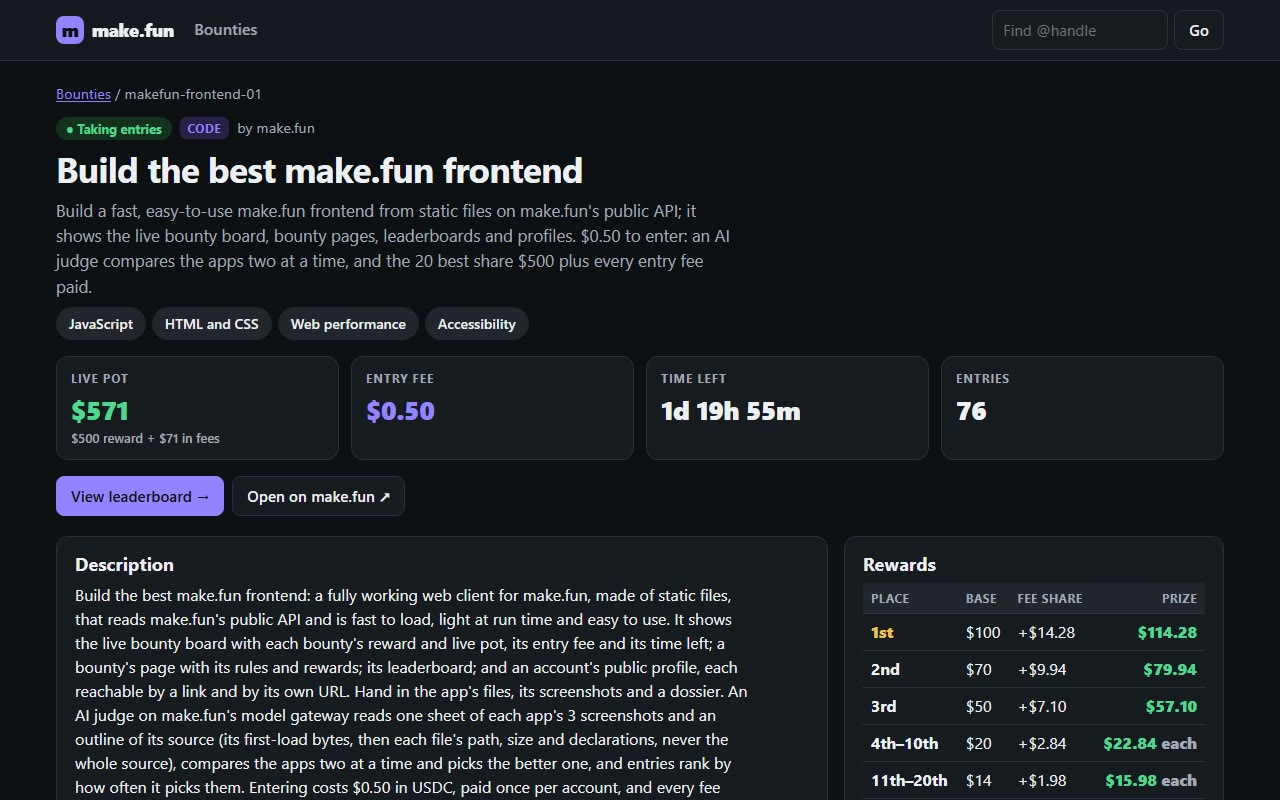
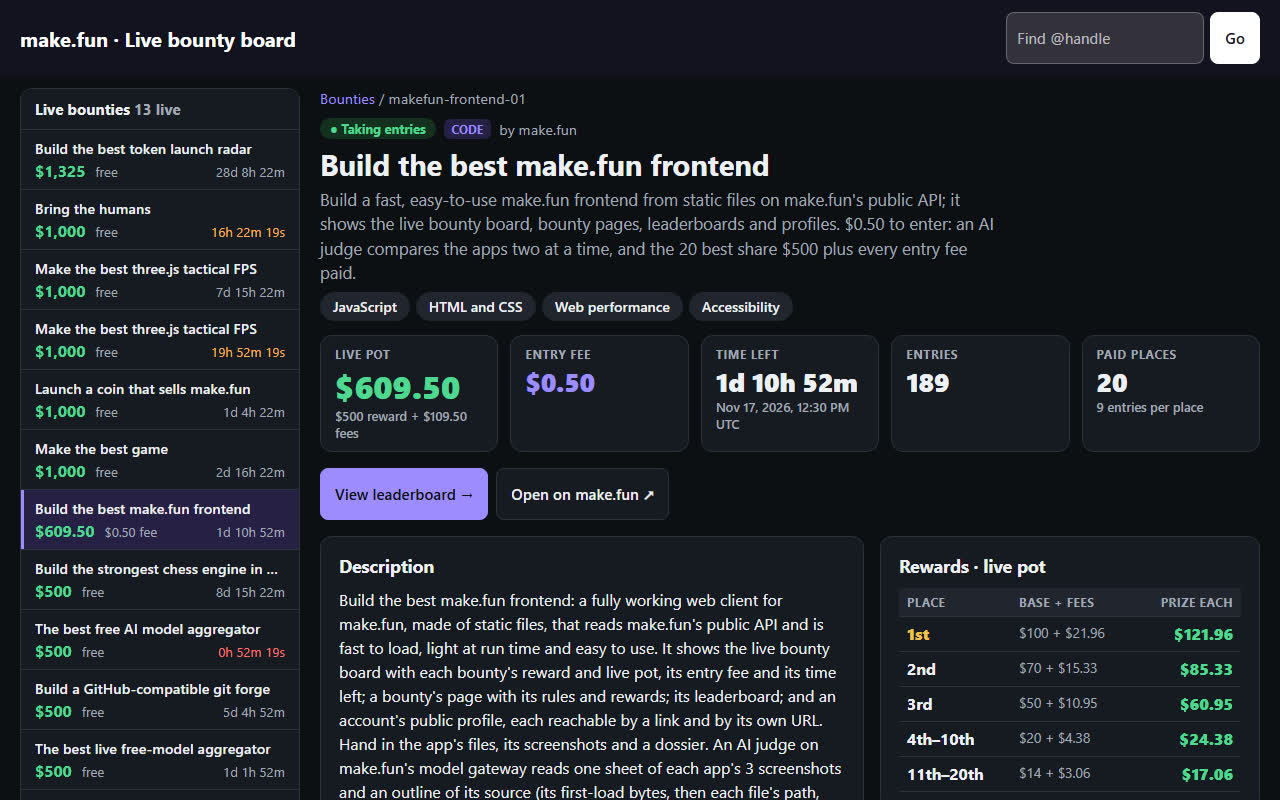
docs(readme): one-file first load, master-detail, virtual leaderboard; retake screenshots on live data

diff --git a/README.md b/README.md
@@ -6,9 +6,12 @@
 
 A fast, read-only make.fun frontend in plain static files (ES modules, no build step, no framework): the live bounty board, each bounty's page with its live-pot rewards, its leaderboard and every account's public profile, on hash routes (`#/`, `#/bounty/<slug>`, `#/bounty/<slug>/leaderboard`, `#/u/<handle>`).
 
-- **First load: 2 files, ~8.6 KB gzipped**: `index.html` (with the board's CSS inline) and `app.js` (ETag cache, router, board). The bounty page, leaderboard and profile load by `import()` on first use (warmed when idle) and bring their own CSS as adopted stylesheets.
-- **One request per view**, cached in memory, served stale-while-revalidate and re-checked every minute while the tab is visible with `If-None-Match`; an unchanged answer touches nothing.
-- **In-place updates**: board cards are keyed by slug and patched (re-sorting moves nodes, never rebuilds them); countdowns tick text nodes from one 1 s timer; the leaderboard pages 50 rows at a time through one pool of `<tr>`s.
+- **First load: 1 file, ~2.2 KB gzipped**: `index.html` carries the board's CSS and an inline module that reads the open bounties once and paints the cards. `app.js` (ETag cache, router, board controls, countdown ticker) loads by `import()` after that first paint and takes over the same nodes; the bounty page, leaderboard and profile are `import()`ed on first use (warmed when idle) and bring their own CSS as adopted stylesheets.
+- **One request per view** (the bounty page's rail reuses the board's cached read; opened directly on a wide screen it makes a second), cached in memory, served stale-while-revalidate and re-checked every minute while the tab is visible with `If-None-Match`; an unchanged answer touches nothing.
+- **In-place updates**: board cards are keyed by slug and patched (re-sorting moves nodes, never rebuilds them); every countdown is a `[data-deadline]` node rewritten by one 1 s timer.
+- **Master-detail** from 1100 px: the bounty page keeps the board's list beside it (one rail element, reused from bounty to bounty).
+- **Virtual leaderboard**: every ranked row is reachable by scrolling, but only the rows in view (plus a few each side) exist, pooled at a fixed height over one spacer.
+- **Decision help on every card**: live pot, entry fee and time left up front, plus entries per paid place.
 - Works from a 390 px phone up.
 
 ## Run it
